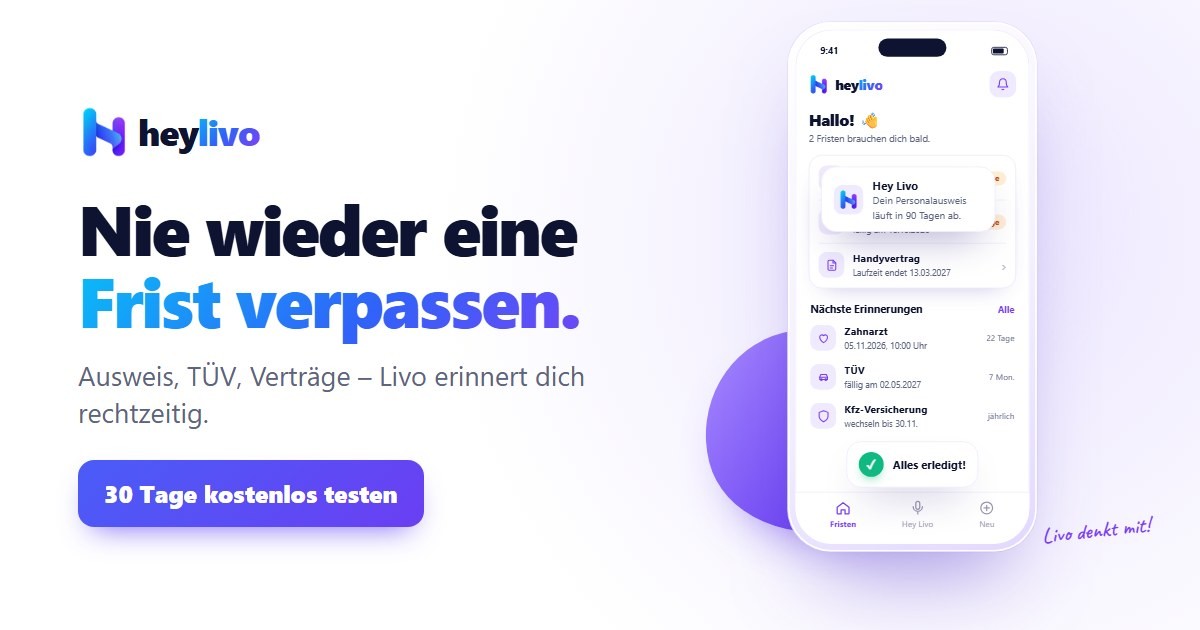
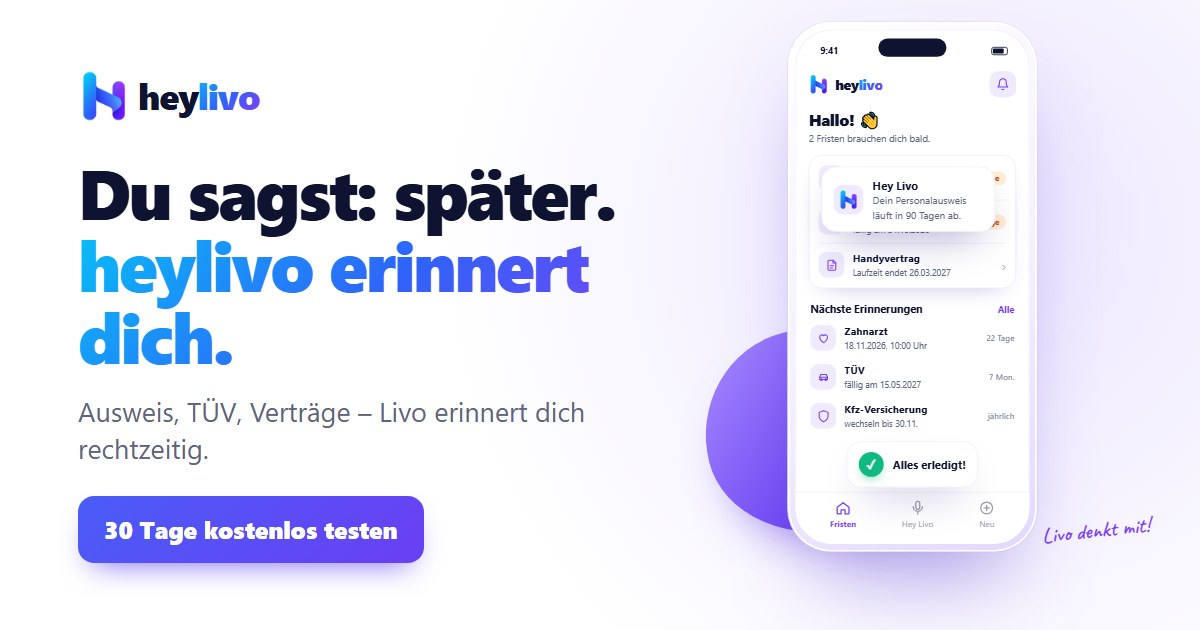
new motto: "Du sagst: später. heylivo erinnert dich." (EN: "You say: later. heylivo reminds you.")
Home DE/EN (title, og:title, h1, footer), app empty screen and manifest name,
new link preview images og-de/og-en (?v=2 so messengers fetch them again), app v=59.

Changed region(s): [[0.0617, 0.2714, 0.5242, 0.9349], [0.0617, 0.1206, 0.2158, 0.2413], [0.7092, 0.181, 0.74, 0.2111]]

diff --git a/app/i18n.js b/app/i18n.js
@@ -63,7 +63,7 @@ var TXT = {
     "status.expired": "<b>Deine Testphase ist vorbei.</b> Deine Fristen kannst du weiter ansehen. Zum Eintragen, Ändern und für Erinnerungen: <u>Livo Plus aktivieren</u>",
     "sec.now": "Jetzt kümmern", "sec.later": "Alles im Blick", "allgood": "✅ Alles im Griff – gerade ist nichts fällig.",
     "card.remind": "Erinnerung {x}", "card.due": "fällig am {x}",
-    "empty.title": "Nie wieder eine Frist verpassen.", "empty.sub": "Sag Livo einfach, woran du denken musst – oder wähle eine Vorlage.", "empty.all": "Alle Vorlagen ansehen",
+    "empty.title": "Du sagst: später. heylivo erinnert dich.", "empty.sub": "Sag Livo einfach, woran du denken musst – oder wähle eine Vorlage.", "empty.all": "Alle Vorlagen ansehen",
     "picker.title": "Was möchtest du im Blick behalten?", "picker.voice": "🎤 Lieber sagen statt tippen", "cancel": "Abbrechen",
     "voice.intro": "Sag einfach, worum es geht und wann – z. B. „Mein Ausweis läuft im März 2027 ab“ oder „Zahnarzt am 3. November um 10 Uhr“. Livo hört zu, bis du kurz still bist – oder tipp aufs Mikrofon, wenn du fertig bist.",
     "voice.unsupported": "Spracheingabe geht in diesem Browser nicht – in Chrome auf Android und in Safari auf dem iPhone schon. Du kannst den Satz aber hier eintippen.",
@@ -181,7 +181,7 @@ var TXT = {
     "status.expired": "<b>Your trial is over.</b> You can still view your deadlines. To add or change them and to get reminders: <u>get Livo Plus</u>",
     "sec.now": "Act now", "sec.later": "Coming up", "allgood": "✅ All good – nothing is due right now.",
     "card.remind": "Reminder {x}", "card.due": "due {x}",
-    "empty.title": "Never miss a deadline again.", "empty.sub": "Just tell Livo what you need to remember – or pick a template.", "empty.all": "See all templates",
+    "empty.title": "You say: later. heylivo reminds you.", "empty.sub": "Just tell Livo what you need to remember – or pick a template.", "empty.all": "See all templates",
     "picker.title": "What would you like to keep track of?", "picker.voice": "🎤 Rather say it than type it", "cancel": "Cancel",
     "voice.intro": "Just say what it is and when – e.g. “My ID card expires in March 2027” or “Dentist on 3 November at 10 am”. Livo listens until you pause – or tap the microphone when you're done.",
     "voice.unsupported": "Voice input doesn't work in this browser – it does in Chrome on Android and Safari on iPhone. You can type the sentence here instead.",

diff --git a/index.html b/index.html
@@ -6,14 +6,14 @@
 <!-- Pinterest: bestätigt heylivo.com für das Pinterest-Unternehmenskonto (nie löschen) -->
 <meta name="p:domain_verify" content="8caf828f8258ec2c561a05340510beca"/>
 <meta name="theme-color" content="#3062f9">
-<title>heylivo – Nie wieder eine Frist verpassen</title>
+<title>Du sagst: später. heylivo erinnert dich. – Fristen-App</title>
 <meta name="description" content="heylivo merkt sich Ausweis, TÜV, Versicherungen, Verträge und Arzttermine – und erinnert dich rechtzeitig. Einfach sagen: „Hey Livo …“. 30 Tage kostenlos testen.">
 <!-- Vorschau beim Teilen des Links (WhatsApp, Viber, Facebook, Instagram) - kein og:url, sonst bündeln die Dienste alle Links mit ?ref=… auf eine alte Vorschau -->
 <meta property="og:type" content="website">
 <meta property="og:site_name" content="heylivo">
-<meta property="og:title" content="heylivo – Nie wieder eine Frist verpassen">
+<meta property="og:title" content="Du sagst: später. heylivo erinnert dich.">
 <meta property="og:description" content="Ausweis, TÜV, Verträge – Livo erinnert dich rechtzeitig. 30 Tage kostenlos testen.">
-<meta property="og:image" content="https://heylivo.com/og-de.jpg">
+<meta property="og:image" content="https://heylivo.com/og-de.jpg?v=2">
 <meta property="og:image:width" content="1200">
 <meta property="og:image:height" content="630">
 <meta property="og:locale" content="de_DE">
@@ -320,7 +320,7 @@
     <div class="wrap">
       <div>
         <p class="eyebrow">Dein persönlicher Fristen-Assistent</p>
-        <h1>Nie wieder eine <em class="grad-text">Frist verpassen.</em></h1>
+        <h1>Du sagst: später. <em class="grad-text">heylivo erinnert dich.</em></h1>
         <p class="lead">heylivo merkt sich Ausweis, TÜV, Versicherungen, Verträge und Arzttermine – und erinnert dich rechtzeitig. Einfach sagen: „Hey Livo …“</p>
         <ol class="hsteps">
           <li><b>1</b><span><strong>App öffnen</strong>ohne Anmeldung</span></li>
@@ -476,7 +476,7 @@
     <div class="frow">
       <div>
         <a class="logo" href="./"><img src="icon.png" alt=""><span class="wm">hey<span>livo</span></span></a>
-        <p>Nie wieder eine Frist verpassen.</p>
+        <p>Du sagst: später. heylivo erinnert dich.</p>
       </div>
       <nav aria-label="Rechtliches"><a href="ratgeber/">Ratgeber</a><a href="datenschutz.html">Datenschutz</a><a href="agb.html">AGB</a><a href="impressum.html">Impressum</a></nav>
     </div>

diff --git a/en/index.html b/en/index.html
@@ -4,14 +4,14 @@
 <meta charset="utf-8">
 <meta name="viewport" content="width=device-width, initial-scale=1">
 <meta name="theme-color" content="#3062f9">
-<title>heylivo – Never miss a deadline again</title>
+<title>You say: later. heylivo reminds you. – Deadline app</title>
 <meta name="description" content="heylivo remembers your ID card, car inspection, insurance, contracts and doctor's appointments – and reminds you in time. Just say: “Hey Livo …”. Try it free for 30 days.">
 <!-- Link preview when sharing (WhatsApp, Viber, Facebook, Instagram) - no og:url, otherwise the services fold every ?ref=… link into one old preview -->
 <meta property="og:type" content="website">
 <meta property="og:site_name" content="heylivo">
-<meta property="og:title" content="heylivo – Never miss a deadline again">
+<meta property="og:title" content="You say: later. heylivo reminds you.">
 <meta property="og:description" content="ID, car inspection, contracts – Livo reminds you in time. Try it free for 30 days.">
-<meta property="og:image" content="https://heylivo.com/og-en.jpg">
+<meta property="og:image" content="https://heylivo.com/og-en.jpg?v=2">
 <meta property="og:image:width" content="1200">
 <meta property="og:image:height" content="630">
 <meta property="og:locale" content="en_GB">
@@ -318,7 +318,7 @@
     <div class="wrap">
       <div>
         <p class="eyebrow">Your personal deadline assistant</p>
-        <h1>Never miss a <em class="grad-text">deadline again.</em></h1>
+        <h1>You say: later. <em class="grad-text">heylivo reminds you.</em></h1>
         <p class="lead">heylivo remembers your ID card, car inspection, insurance, contracts and doctor's appointments – and reminds you in time. Just say: “Hey Livo …”</p>
         <ol class="hsteps">
           <li><b>1</b><span><strong>Open the app</strong>no sign-up</span></li>
@@ -474,7 +474,7 @@
     <div class="frow">
       <div>
         <a class="logo" href="./"><img src="../icon.png" alt=""><span class="wm">hey<span>livo</span></span></a>
-        <p>Never miss a deadline again.</p>
+        <p>You say: later. heylivo reminds you.</p>
       </div>
       <nav aria-label="Legal"><a href="deadlines-germany/">Guide</a><a href="privacy.html">Privacy</a><a href="terms.html">Terms</a><a href="imprint.html">Legal notice</a></nav>
     </div>

diff --git a/app/index.html b/app/index.html
@@ -11,9 +11,9 @@
 <!-- Link preview when sharing (WhatsApp, Viber, Facebook, Instagram) - no og:url, otherwise the services fold every ?ref=… link into one old preview -->
 <meta property="og:type" content="website">
 <meta property="og:site_name" content="heylivo">
-<meta property="og:title" content="heylivo – Never miss a deadline again">
+<meta property="og:title" content="You say: later. heylivo reminds you.">
 <meta property="og:description" content="ID, car inspection, contracts – Livo reminds you in time. Try it free for 30 days.">
-<meta property="og:image" content="https://heylivo.com/og-en.jpg">
+<meta property="og:image" content="https://heylivo.com/og-en.jpg?v=2">
 <meta property="og:image:width" content="1200">
 <meta property="og:image:height" content="630">
 <meta property="og:locale" content="en_GB">
@@ -23,7 +23,7 @@
 <link rel="apple-touch-icon" href="../apple-touch-icon.png">
 <meta name="apple-mobile-web-app-capable" content="yes">
 <meta name="apple-mobile-web-app-title" content="heylivo">
-<link rel="stylesheet" href="style.css?v=58">
+<link rel="stylesheet" href="style.css?v=59">
 </head>
 <body>
 
@@ -52,13 +52,13 @@
 <section class="sheet" id="sheet" hidden></section>
 <div class="toast" id="toast" hidden></div>
 
-<script src="i18n.js?v=58"></script>
-<script src="vendor/supabase.js?v=58"></script>
-<script src="templates.js?v=58"></script>
-<script src="voice.js?v=58"></script>
-<script src="push.js?v=58"></script>
-<script src="account.js?v=58"></script>
+<script src="i18n.js?v=59"></script>
+<script src="vendor/supabase.js?v=59"></script>
+<script src="templates.js?v=59"></script>
+<script src="voice.js?v=59"></script>
+<script src="push.js?v=59"></script>
+<script src="account.js?v=59"></script>
 <script src="../ref.js?v=1" data-decorate="no"></script>
-<script src="app.js?v=58"></script>
+<script src="app.js?v=59"></script>
 </body>
 </html>

diff --git a/en/deadlines-germany/index.html b/en/deadlines-germany/index.html
@@ -14,7 +14,7 @@
 <meta property="og:site_name" content="heylivo">
 <meta property="og:title" content="Deadlines in Germany: the checklist for expats">
 <meta property="og:description" content="Anmeldung, residence permit, driving licence, TÜV, car insurance, tax – and how to never miss them.">
-<meta property="og:image" content="https://heylivo.com/og-en.jpg">
+<meta property="og:image" content="https://heylivo.com/og-en.jpg?v=2">
 <meta property="og:image:width" content="1200">
 <meta property="og:image:height" content="630">
 <meta property="og:locale" content="en_GB">

diff --git a/kfz-versicherung-wechseln/index.html b/kfz-versicherung-wechseln/index.html
@@ -14,7 +14,7 @@
 <meta property="og:site_name" content="heylivo">
 <meta property="og:title" content="Kfz-Versicherung wechseln: bis 30. November kündigen">
 <meta property="og:description" content="Warum der 30.11. Stichtag ist, wie der Wechsel klappt – und wie du ihn nie wieder verpasst.">
-<meta property="og:image" content="https://heylivo.com/og-de.jpg">
+<meta property="og:image" content="https://heylivo.com/og-de.jpg?v=2">
 <meta property="og:image:width" content="1200">
 <meta property="og:image:height" content="630">
 <meta property="og:locale" content="de_DE">

diff --git a/tuev-ueberzogen/index.html b/tuev-ueberzogen/index.html
@@ -14,7 +14,7 @@
 <meta property="og:site_name" content="heylivo">
 <meta property="og:title" content="TÜV überzogen: Was kostet das – und was jetzt?">
 <meta property="og:description" content="Bußgeld, Plakette lesen, verspätete HU – und wie du den Termin nie wieder verpasst.">
-<meta property="og:image" content="https://heylivo.com/og-de.jpg">
+<meta property="og:image" content="https://heylivo.com/og-de.jpg?v=2">
 <meta property="og:image:width" content="1200">
 <meta property="og:image:height" content="630">
 <meta property="og:locale" content="de_DE">

diff --git a/personalausweis-abgelaufen/index.html b/personalausweis-abgelaufen/index.html
@@ -14,7 +14,7 @@
 <meta property="og:site_name" content="heylivo">
 <meta property="og:title" content="Personalausweis abgelaufen – was du jetzt tun musst">
 <meta property="og:description" content="Bußgeld, Kosten, Wartezeit – und wie du das Ablaufdatum nie wieder verpasst.">
-<meta property="og:image" content="https://heylivo.com/og-de.jpg">
+<meta property="og:image" content="https://heylivo.com/og-de.jpg?v=2">
 <meta property="og:image:width" content="1200">
 <meta property="og:image:height" content="630">
 <meta property="og:locale" content="de_DE">

diff --git a/ratgeber/index.html b/ratgeber/index.html
@@ -14,7 +14,7 @@
 <meta property="og:site_name" content="heylivo">
 <meta property="og:title" content="Ratgeber: Fristen im Alltag">
 <meta property="og:description" content="Personalausweis, TÜV, Kfz-Versicherung – was gilt und wie du keine Frist mehr verpasst.">
-<meta property="og:image" content="https://heylivo.com/og-de.jpg">
+<meta property="og:image" content="https://heylivo.com/og-de.jpg?v=2">
 <meta property="og:image:width" content="1200">
 <meta property="og:image:height" content="630">
 <meta property="og:locale" content="de_DE">
